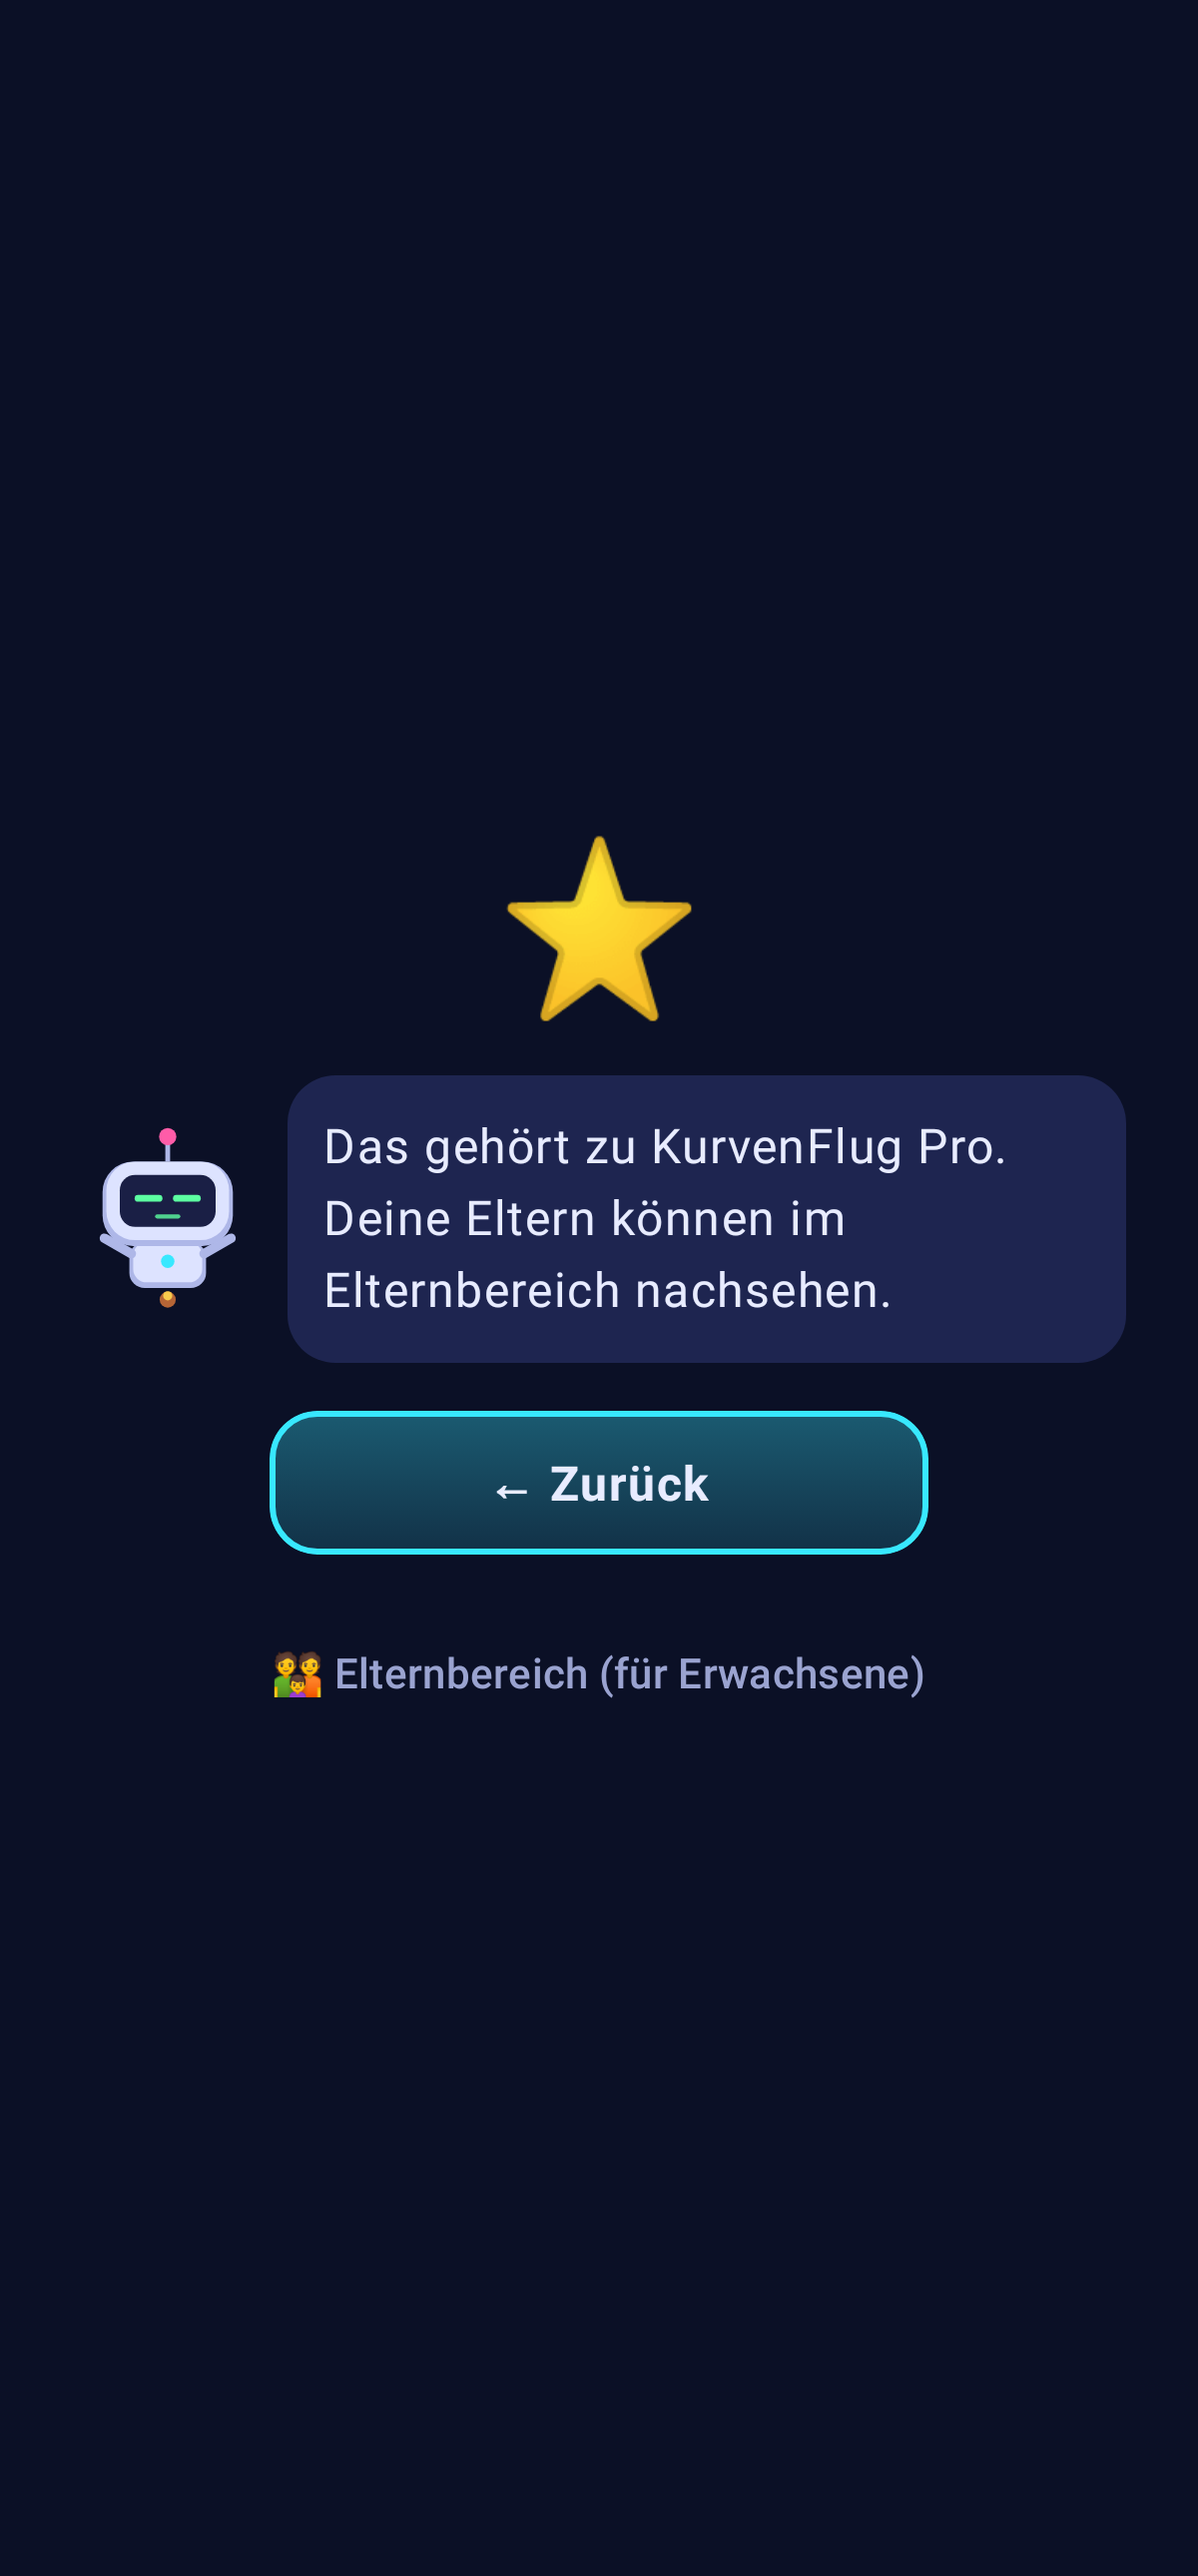
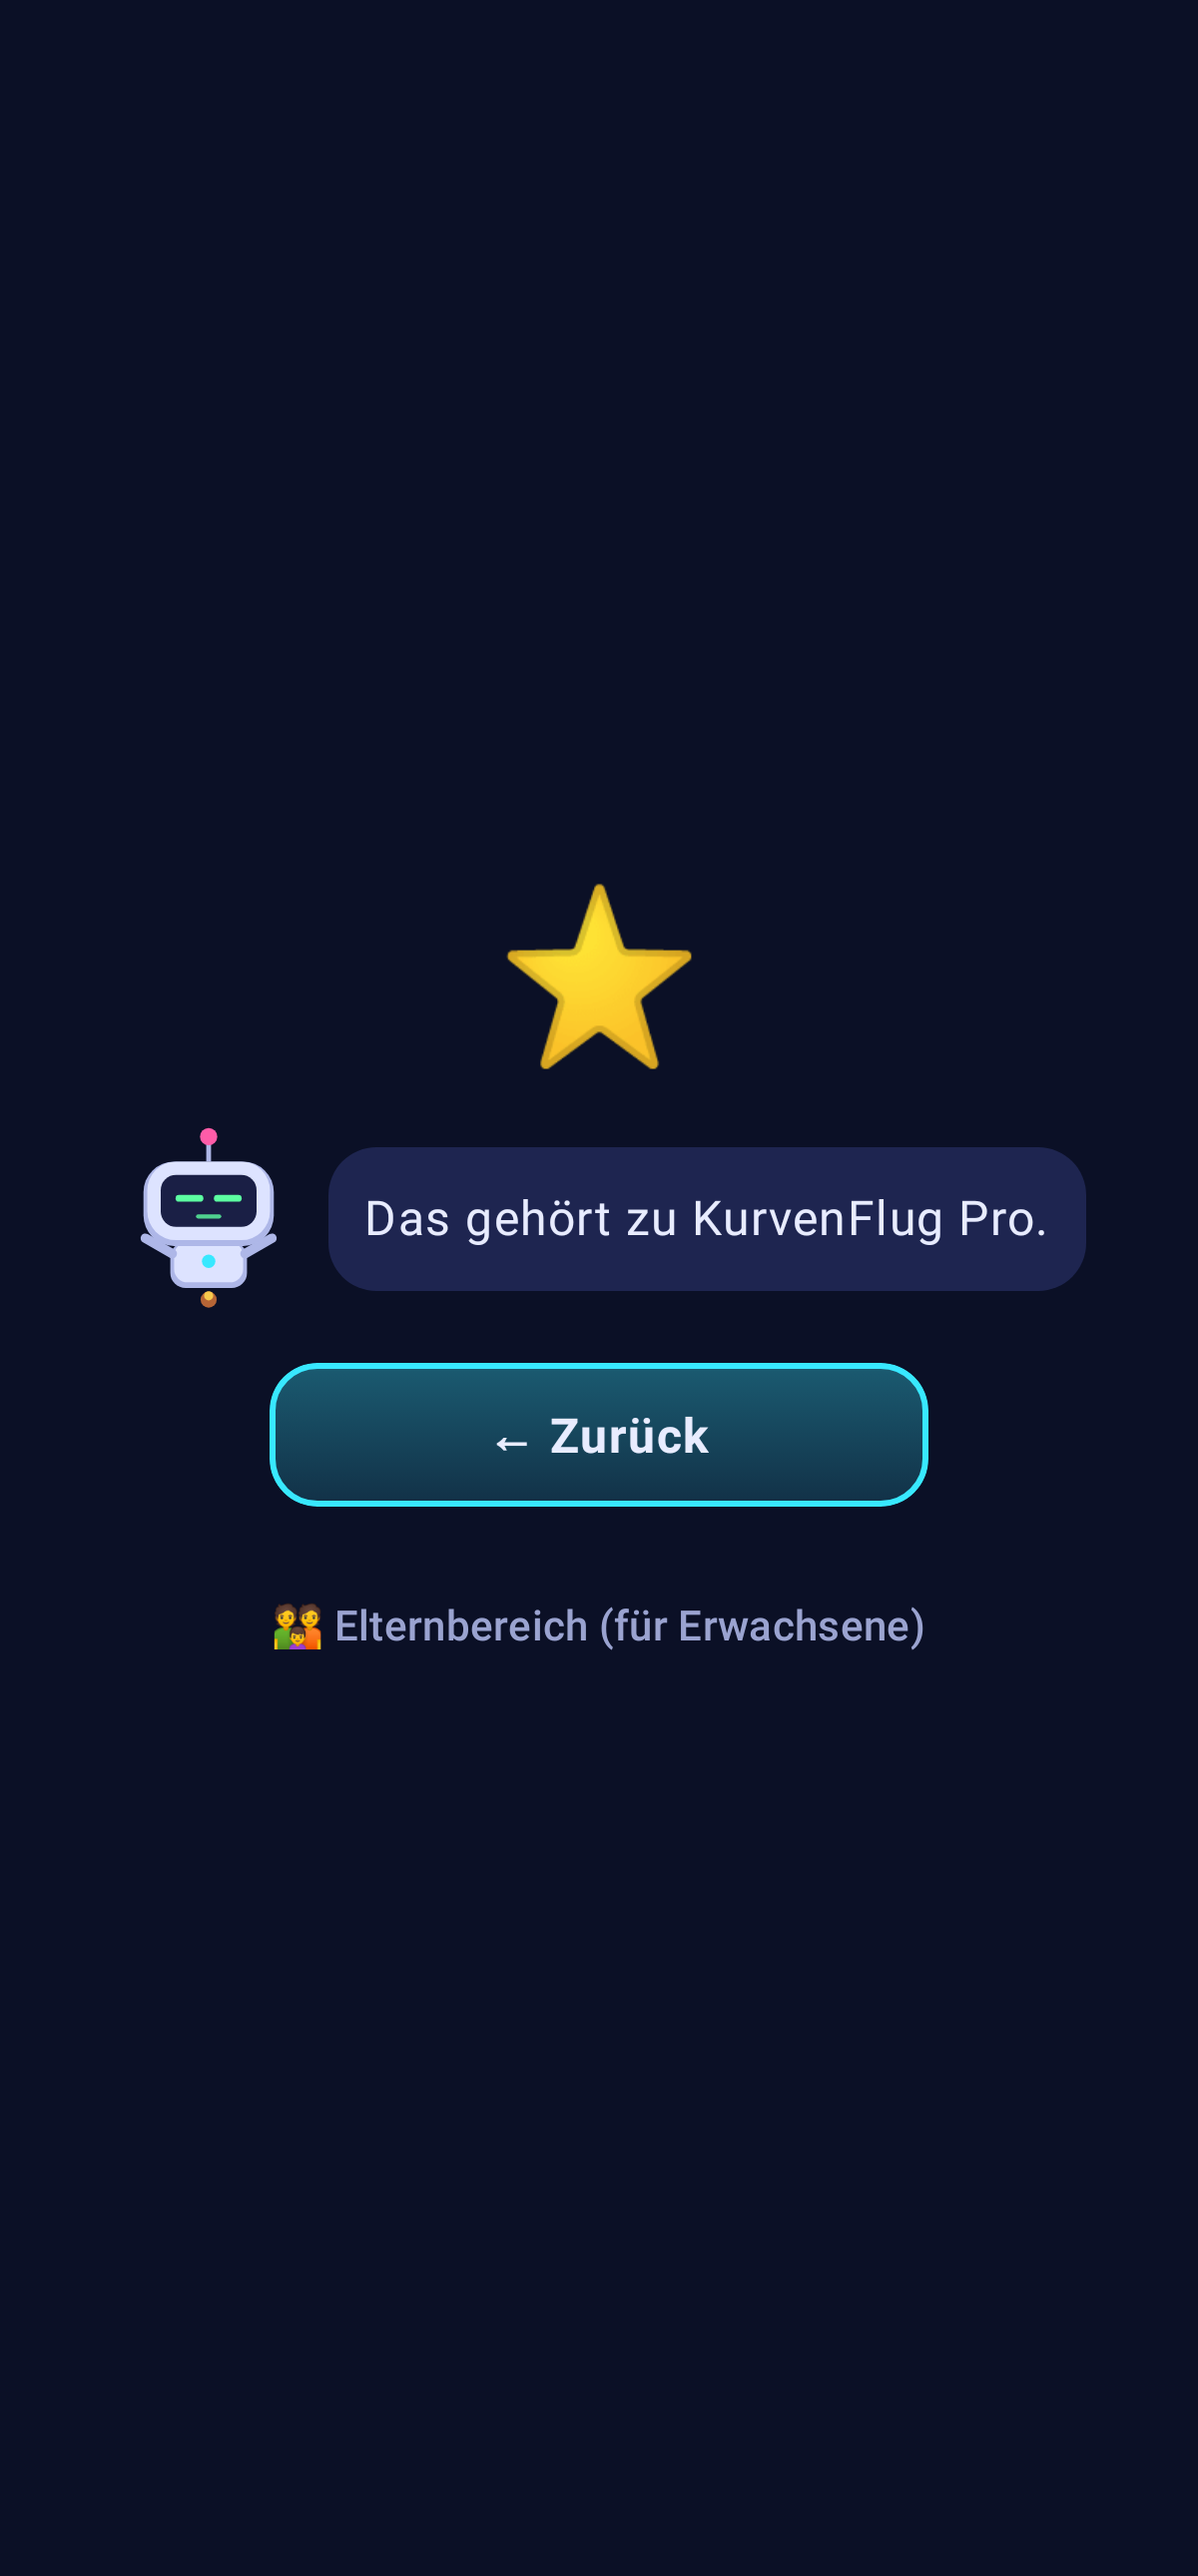
KurvenFlug: Schloss-Text nur noch „Das gehört zu KurvenFlug Pro.“ (Recht/Marcel 19.11.), Test erweitert
Claude-Session: https://claude.ai/code/session_015vg1TniCB6sLGd2dNSJdge

Changed region(s): [[0.0617, 0.3101, 0.9558, 0.6822]]

diff --git a/kurvenflug/core/model/src/jvmTest/kotlin/de/kurvenflug/core/model/KidsNoPurchaseAppealTest.kt b/kurvenflug/core/model/src/jvmTest/kotlin/de/kurvenflug/core/model/KidsNoPurchaseAppealTest.kt
@@ -12,7 +12,7 @@ class KidsNoPurchaseAppealTest {
     private val sources = File("../../shared/src/commonMain/kotlin").walkTopDown().filter { it.extension == "kt" }.toList()
 
     @Test fun noPurchaseAppealToChildren() {
-        val bad = Regex("(?i)frag\\s+deine\\s+eltern|kauf\\s+dir|jetzt\\s+kaufen|bitte\\s+deine\\s+eltern|sag\\s+deinen\\s+eltern")
+        val bad = Regex("(?i)frag\\s+deine\\s+eltern|kauf\\s+dir|jetzt\\s+kaufen|bitte\\s+deine\\s+eltern|sag\\s+deinen\\s+eltern|deine\\s+eltern\\s+können")
         val hits = sources.flatMap { f -> f.readLines().mapIndexedNotNull { i, l -> if (bad.containsMatchIn(l)) "${f.name}:${i + 1}" else null } }
         assertTrue(hits.isEmpty(), "Kaufaufforderung an Kinder: $hits")
     }
@@ -22,6 +22,6 @@ class KidsNoPurchaseAppealTest {
         assertTrue("ProLockedNotice(" in root)
         assertTrue("locked = true" !in root, "gesperrtes Level darf nicht die Pro-Seite mit Preis zeigen")
         val pro = sources.first { it.name == "ProScreen.kt" }.readText()
-        assertTrue("\"Das gehört zu KurvenFlug Pro. Deine Eltern können im Elternbereich nachsehen.\"" in pro)
+        assertTrue("const val PRO_LOCKED_TEXT = \"Das gehört zu KurvenFlug Pro.\"" in pro)
     }
 }

diff --git a/kurvenflug/shared/src/commonMain/kotlin/de/kurvenflug/app/ui/together/Together.kt b/kurvenflug/shared/src/commonMain/kotlin/de/kurvenflug/app/ui/together/Together.kt
@@ -83,7 +83,7 @@ fun ProfileScreen(
                 val ps = de.kurvenflug.app.LocalPro.current
                 val maxP = minOf(Settings.MAX_PROFILES, de.kurvenflug.core.model.Pro.maxProfiles(ps.pro, ps.locking))
                 if (profiles.size >= maxP && maxP < Settings.MAX_PROFILES)
-                    Text("⭐ Mehr als ${de.kurvenflug.core.model.Pro.FREE_PROFILES} Spieler gehören zu KurvenFlug Pro. Deine Eltern können im Elternbereich nachsehen.", color = Q.Yellow)
+                    Text("⭐ Mehr als ${de.kurvenflug.core.model.Pro.FREE_PROFILES} Spieler gehören zu KurvenFlug Pro.", color = Q.Yellow)
                 if (profiles.size < maxP) NeonButton(onClick = { editing = -1; name = ""; avatar = Settings.AVATARS[profiles.size % Settings.AVATARS.size] },
                     color = Q.Green, modifier = Modifier.fillMaxWidth()) { Text("➕ Neuer Spieler", fontWeight = FontWeight.Bold) }
                 editing?.let { id ->

diff --git a/kurvenflug/shared/src/commonMain/kotlin/de/kurvenflug/app/ui/pro/ProScreen.kt b/kurvenflug/shared/src/commonMain/kotlin/de/kurvenflug/app/ui/pro/ProScreen.kt
@@ -147,7 +147,7 @@ fun ProScreen(state: ProState, shop: ProShop?, onCode: (String) -> Unit, onBack:
  * Kinder-Hinweis an jedem Pro-Schloss (UWG Anhang Nr. 28, Korrektur AppZentrale 19.11.): sachlich, kein Preis, kein Kaufknopf,
  * keine Aufforderung an das Kind. Der einzige Weg führt zum Eltern-Tor, nie direkt zur Kasse.
  */
-const val PRO_LOCKED_TEXT = "Das gehört zu KurvenFlug Pro. Deine Eltern können im Elternbereich nachsehen."
+const val PRO_LOCKED_TEXT = "Das gehört zu KurvenFlug Pro."   // ohne Eltern-Zusatz (Recht/Marcel 19.11.: kam einer mittelbaren Kaufaufforderung zu nah)
 
 @Composable
 fun ProLockedNotice(onBack: () -> Unit, onParents: () -> Unit) {
